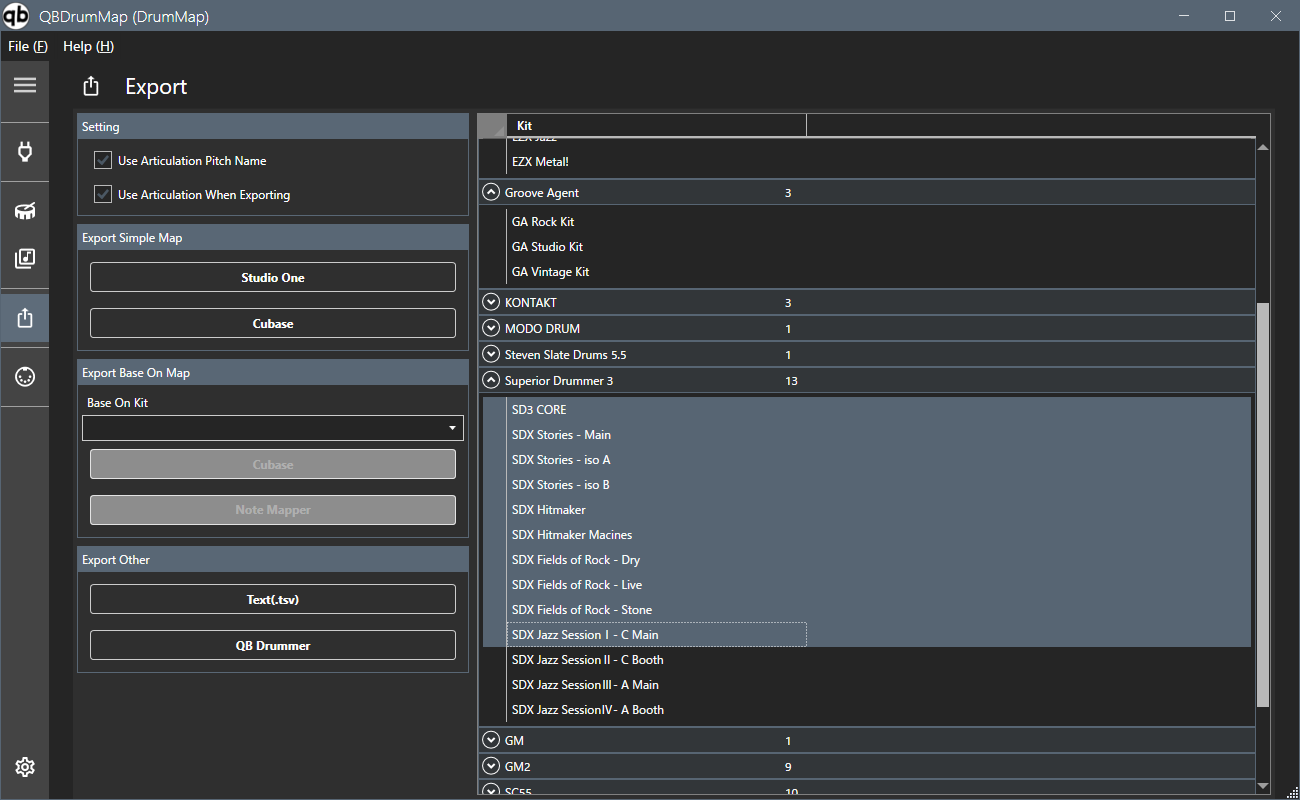
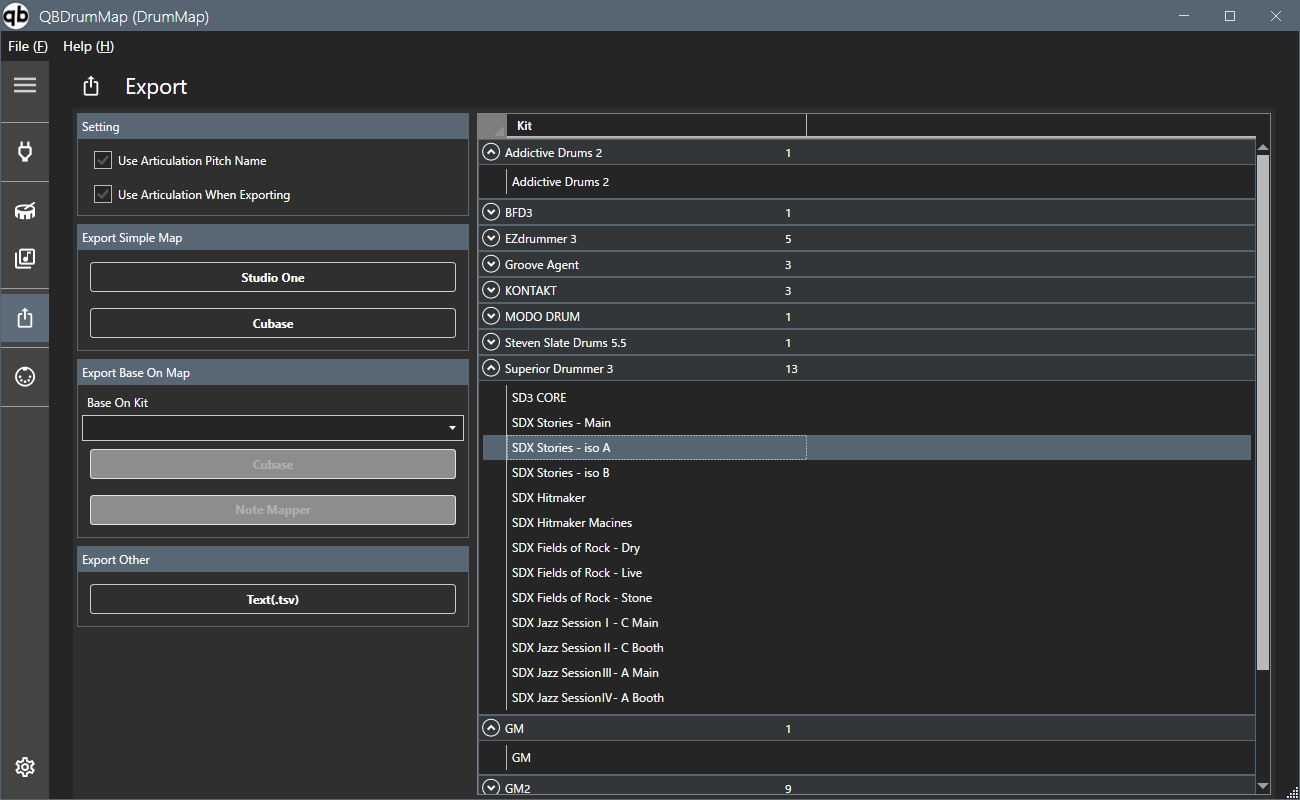
reg

Changed region(s): [[0.3692, 0.1562, 0.9846, 1.0], [0.1538, 0.7812, 0.2462, 0.8125], [0.9538, 0.8438, 0.9846, 0.9062]]

diff --git a/QBDrumMap/Views/ExportPage.xaml b/QBDrumMap/Views/ExportPage.xaml
@@ -56,7 +56,7 @@
                     <GroupBox Style="{StaticResource GroupBoxBaseStyle}" Header="Export Other">
                         <StackPanel>
                             <Button Style="{StaticResource ExportButtonStyle}" Content="Text(.tsv)" Command="{Binding ExportTextCommand}"/>
-                            <Button Style="{StaticResource ExportButtonStyle}" Content="QB Drummer" Command="{Binding ExportQBDrummerCommand}"/>
+                            <!--<Button Style="{StaticResource ExportButtonStyle}" Content="QB Drummer" Command="{Binding ExportQBDrummerCommand}"/>-->
                         </StackPanel>
                     </GroupBox>
                 </StackPanel>

diff --git a/QBDrumMap/Resources/Document/Manual/page-export.html b/QBDrumMap/Resources/Document/Manual/page-export.html
@@ -54,7 +54,6 @@
                 その他
                 <ul>
                     <li>tsvテキスト</li>
-                    <li>QB Drummer用プリセットファイル</li>
                 </ul>
             </li>
         </ul>
